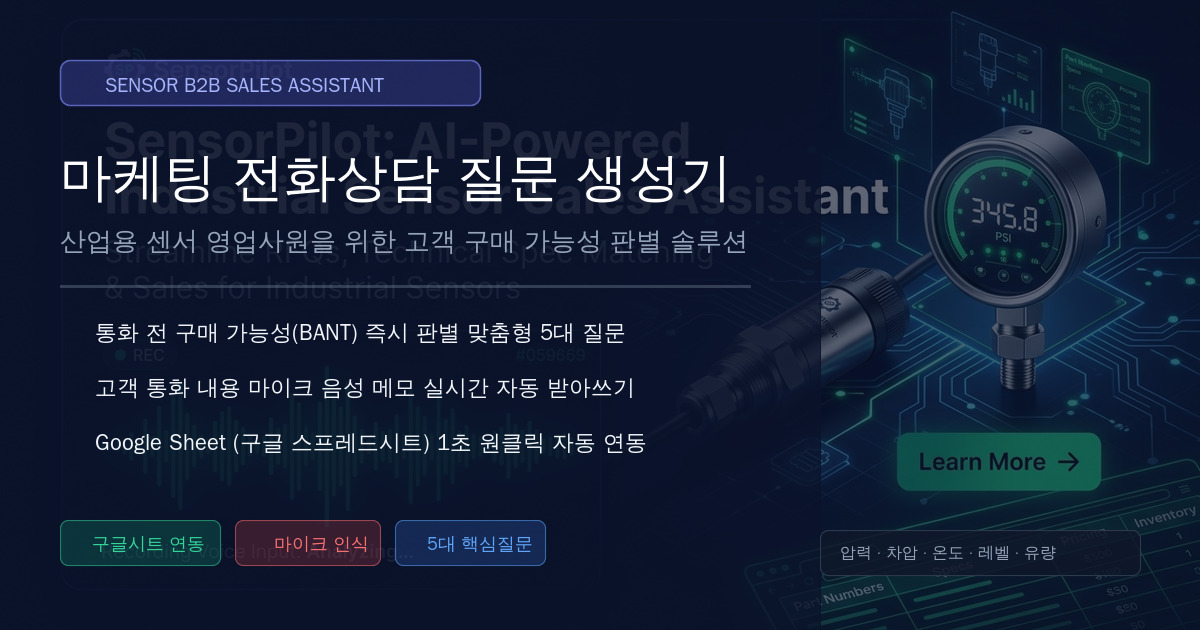
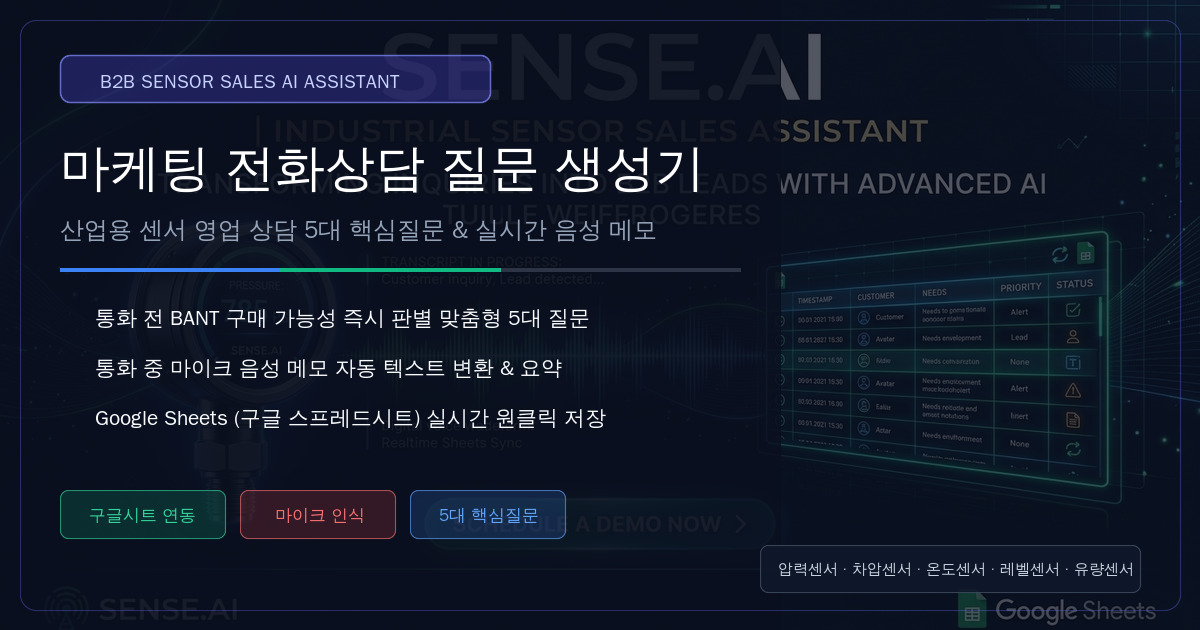
chore: update OG image asset and cache version
Refresh the Open Graph image to version 3 to ensure updated social media previews are propagated.

diff --git a/index.html b/index.html
@@ -15,8 +15,8 @@
     <meta property="og:url" content="https://ais-pre-nvlqz5v4av2dngu3wwhgm5-497417192682.asia-east1.run.app/" />
     <meta property="og:title" content="마케팅 전화상담 질문 생성기 — 산업용 센서 B2B" />
     <meta property="og:description" content="통화 전 구매 가능성을 즉시 판별하는 맞춤형 5대 상담 질문 생성 & 마이크 음성 메모 Google Sheet 실시간 연동" />
-    <meta property="og:image" content="https://ais-pre-nvlqz5v4av2dngu3wwhgm5-497417192682.asia-east1.run.app/og-image.jpg?v=2" />
-    <meta property="og:image:secure_url" content="https://ais-pre-nvlqz5v4av2dngu3wwhgm5-497417192682.asia-east1.run.app/og-image.jpg?v=2" />
+    <meta property="og:image" content="https://ais-pre-nvlqz5v4av2dngu3wwhgm5-497417192682.asia-east1.run.app/og-image.jpg?v=3" />
+    <meta property="og:image:secure_url" content="https://ais-pre-nvlqz5v4av2dngu3wwhgm5-497417192682.asia-east1.run.app/og-image.jpg?v=3" />
     <meta property="og:image:type" content="image/jpeg" />
     <meta property="og:image:width" content="1200" />
     <meta property="og:image:height" content="630" />
@@ -27,7 +27,7 @@
     <meta name="twitter:url" content="https://ais-pre-nvlqz5v4av2dngu3wwhgm5-497417192682.asia-east1.run.app/" />
     <meta name="twitter:title" content="마케팅 전화상담 질문 생성기 — 산업용 센서 B2B" />
     <meta name="twitter:description" content="산업용 센서 영업 상담 5대 질문 생성 & 마이크 음성 메모 Google Sheet 저장" />
-    <meta name="twitter:image" content="https://ais-pre-nvlqz5v4av2dngu3wwhgm5-497417192682.asia-east1.run.app/og-image.jpg?v=2" />
+    <meta name="twitter:image" content="https://ais-pre-nvlqz5v4av2dngu3wwhgm5-497417192682.asia-east1.run.app/og-image.jpg?v=3" />
     <link rel="preconnect" href="https://cdn.jsdelivr.net" />
     <link rel="stylesheet" href="https://cdn.jsdelivr.net/gh/orioncactus/pretendard/dist/web/static/pretendard.css" />
   </head>

diff --git a/server.ts b/server.ts
@@ -342,7 +342,7 @@ function injectOpenGraphTags(html: string, req: express.Request): string {
   const baseUrl = `${proto}://${host}`;
 
   return html
-    .replace(/https:\/\/ais-pre-nvlqz5v4av2dngu3wwhgm5-497417192682\.asia-east1\.run\.app\/og-image\.jpg\?v=2/g, `${baseUrl}/og-image.jpg?v=2`)
+    .replace(/https:\/\/ais-pre-nvlqz5v4av2dngu3wwhgm5-497417192682\.asia-east1\.run\.app\/og-image\.jpg(\?[^"']*)?/g, `${baseUrl}/og-image.jpg?v=3`)
     .replace(/https:\/\/ais-pre-nvlqz5v4av2dngu3wwhgm5-497417192682\.asia-east1\.run\.app\//g, `${baseUrl}/`);
 }
 

diff --git a/src/components/OgPreviewModal.tsx b/src/components/OgPreviewModal.tsx
@@ -16,7 +16,7 @@ export const OgPreviewModal: React.FC<OgPreviewModalProps> = ({ isOpen, onClose 
 
   const currentUrl = typeof window !== 'undefined' ? window.location.href : 'https://ais-pre-nvlqz5v4av2dngu3wwhgm5-497417192682.asia-east1.run.app';
   const origin = typeof window !== 'undefined' ? window.location.origin : 'https://ais-pre-nvlqz5v4av2dngu3wwhgm5-497417192682.asia-east1.run.app';
-  const fullOgImageUrl = `${origin}/og-image.jpg?v=2`;
+  const fullOgImageUrl = `${origin}/og-image.jpg?v=3`;
 
   const handleCopyUrl = async () => {
     try {
